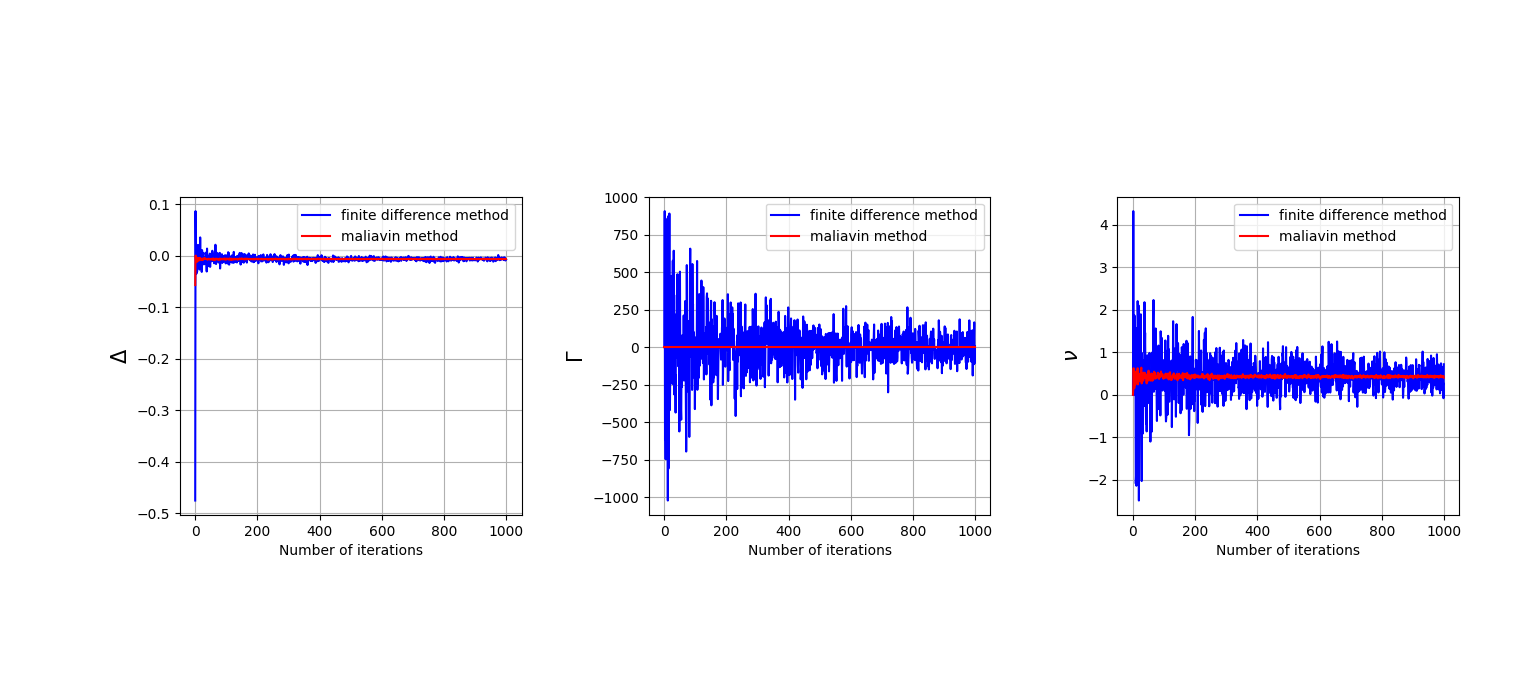
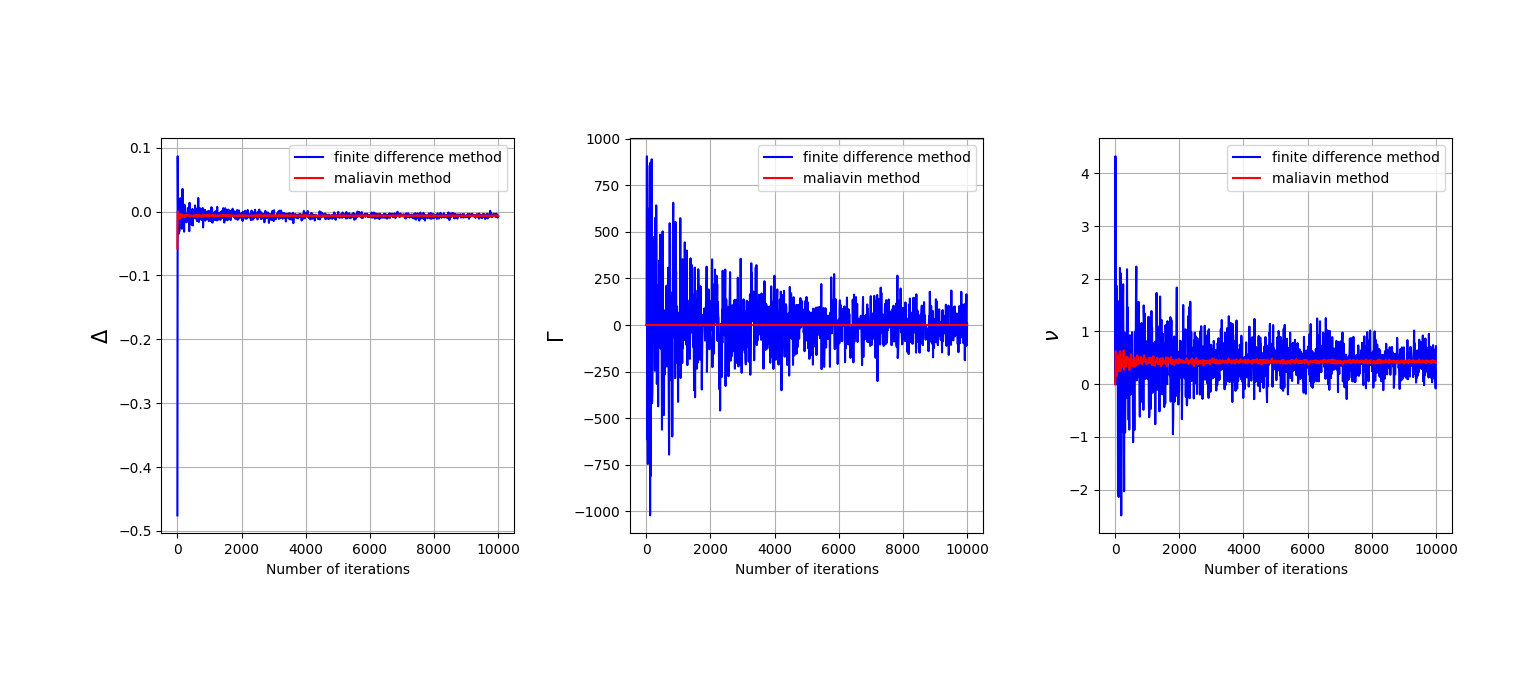
- plots fix

diff --git a/scripts/european_call.py b/scripts/european_call.py
@@ -116,6 +116,7 @@ if __name__ == "__main__":
 
     N_max,step  = 10_000, 10
     eps_vega, epse_delta, eps_gamma = 0.04, 8, 8
+    NB_mc = np.linspace(0,N_max,int(N_max/step))
 
     ############################
     # Defining our call option #
@@ -199,24 +200,24 @@ if __name__ == "__main__":
 
     fig, ax = plt.subplots(1, 3, sharey=False, figsize=(24, 7))
 
-    ax[0].plot(DELTA_epsilon, label="finite difference method", color="blue")
-    ax[0].plot(DELTA_malliavin, label="maliavin method", color="red")
+    ax[0].plot(NB_mc,DELTA_epsilon, label="finite difference method", color="blue")
+    ax[0].plot(NB_mc,DELTA_malliavin, label="maliavin method", color="red")
     ax[0].axhline(y=delta, color="g", linestyle="--", label=f"exact value {delta:.2f}")
     ax[0].set_xlabel(r"Number of iterations")
     ax[0].set_ylabel(r"$\Delta$", fontsize=15)
     ax[0].grid()
     ax[0].legend()
 
-    ax[1].plot(GAMMA_epsilon, label="finite difference method", color="blue")
-    ax[1].plot(GAMMA_malliavin, label="maliavin method", color="red")
+    ax[1].plot(NB_mc,GAMMA_epsilon, label="finite difference method", color="blue")
+    ax[1].plot(NB_mc,GAMMA_malliavin, label="maliavin method", color="red")
     ax[1].axhline(y=gamma, color="g", linestyle="--", label=f"exact value {gamma:.3f}")
     ax[1].set_xlabel(r"Number of iterations")
     ax[1].set_ylabel(r"$\Gamma$", fontsize=15)
     ax[1].grid()
     ax[1].legend()
 
-    ax[2].plot(VEGA_epsilon, label="finite difference method", color="blue")
-    ax[2].plot(VEGA_malliavin, label="maliavin method", color="red")
+    ax[2].plot(NB_mc,VEGA_epsilon, label="finite difference method", color="blue")
+    ax[2].plot(NB_mc,VEGA_malliavin, label="maliavin method", color="red")
     ax[2].axhline(y=vega, color="g", linestyle="--", label=f"exact value {vega:.2f}")
     ax[2].set_xlabel(r"Number of iterations")
     ax[2].set_ylabel(r"$\nu$", fontsize=15)

diff --git a/scripts/corridor_option.py b/scripts/corridor_option.py
@@ -53,10 +53,10 @@ if __name__ == "__main__":
     #####################
     # General Variables #
     #####################
-
+ 
     N_max,step = 10_000,10
     eps_vega, epse_delta, eps_gamma = 0.01,1, 0.01
-    T = np.linspace(0,N_max,int(N_max/step))[1:]
+    NB_mc = np.linspace(0,N_max,int(N_max/step))
 
     ############################
     # Defining our call option #
@@ -140,22 +140,22 @@ if __name__ == "__main__":
 
     fig, ax = plt.subplots(1, 3, sharey=False, figsize=(24, 7))
 
-    ax[0].plot(DELTA_epsilon, label="finite difference method", color="blue")
-    ax[0].plot(DELTA_malliavin, label="maliavin method", color="red")
+    ax[0].plot(NB_mc,DELTA_epsilon, label="finite difference method", color="blue")
+    ax[0].plot(NB_mc,DELTA_malliavin, label="maliavin method", color="red")
     ax[0].set_xlabel(r"Number of iterations")
     ax[0].set_ylabel(r"$\Delta$", fontsize=15)
     ax[0].grid()
     ax[0].legend()
 
-    ax[1].plot(GAMMA_epsilon, label="finite difference method", color="blue")
-    ax[1].plot(GAMMA_malliavin, label="maliavin method", color="red")
+    ax[1].plot(NB_mc,GAMMA_epsilon, label="finite difference method", color="blue")
+    ax[1].plot(NB_mc,GAMMA_malliavin, label="maliavin method", color="red")
     ax[1].set_xlabel(r"Number of iterations")
     ax[1].set_ylabel(r"$\Gamma$", fontsize=15)
     ax[1].grid()
     ax[1].legend()
 
-    ax[2].plot(VEGA_epsilon, label="finite difference method", color="blue")
-    ax[2].plot(VEGA_malliavin, label="maliavin method", color="red")
+    ax[2].plot(NB_mc,VEGA_epsilon, label="finite difference method", color="blue")
+    ax[2].plot(NB_mc,VEGA_malliavin, label="maliavin method", color="red")
     ax[2].set_xlabel(r"Number of iterations")
     ax[2].set_ylabel(r"$\nu$", fontsize=15)
     ax[2].grid()

diff --git a/scripts/digital_option.py b/scripts/digital_option.py
@@ -56,7 +56,7 @@ if __name__ == "__main__":
 
     N_max,step = 10_000,10
     eps_vega, epse_delta, eps_gamma = 0.01,1, 0.01
-    T = np.linspace(0,N_max,int(N_max/step))[1:]
+    NB_mc = np.linspace(0,N_max,int(N_max/step))
 
     ############################
     # Defining our call option #
@@ -140,22 +140,22 @@ if __name__ == "__main__":
 
     fig, ax = plt.subplots(1, 3, sharey=False, figsize=(24, 7))
 
-    ax[0].plot(DELTA_epsilon, label="finite difference method", color="blue")
-    ax[0].plot(DELTA_malliavin, label="maliavin method", color="red")
+    ax[0].plot(NB_mc,DELTA_epsilon, label="finite difference method", color="blue")
+    ax[0].plot(NB_mc,DELTA_malliavin, label="maliavin method", color="red")
     ax[0].set_xlabel(r"Number of iterations")
     ax[0].set_ylabel(r"$\Delta$", fontsize=15)
     ax[0].grid()
     ax[0].legend()
 
-    ax[1].plot(GAMMA_epsilon, label="finite difference method", color="blue")
-    ax[1].plot(GAMMA_malliavin, label="maliavin method", color="red")
+    ax[1].plot(NB_mc,GAMMA_epsilon, label="finite difference method", color="blue")
+    ax[1].plot(NB_mc,GAMMA_malliavin, label="maliavin method", color="red")
     ax[1].set_xlabel(r"Number of iterations")
     ax[1].set_ylabel(r"$\Gamma$", fontsize=15)
     ax[1].grid()
     ax[1].legend()
 
-    ax[2].plot(VEGA_epsilon, label="finite difference method", color="blue")
-    ax[2].plot(VEGA_malliavin, label="maliavin method", color="red")
+    ax[2].plot(NB_mc,VEGA_epsilon, label="finite difference method", color="blue")
+    ax[2].plot(NB_mc,VEGA_malliavin, label="maliavin method", color="red")
     ax[2].set_xlabel(r"Number of iterations")
     ax[2].set_ylabel(r"$\nu$", fontsize=15)
     ax[2].grid()
